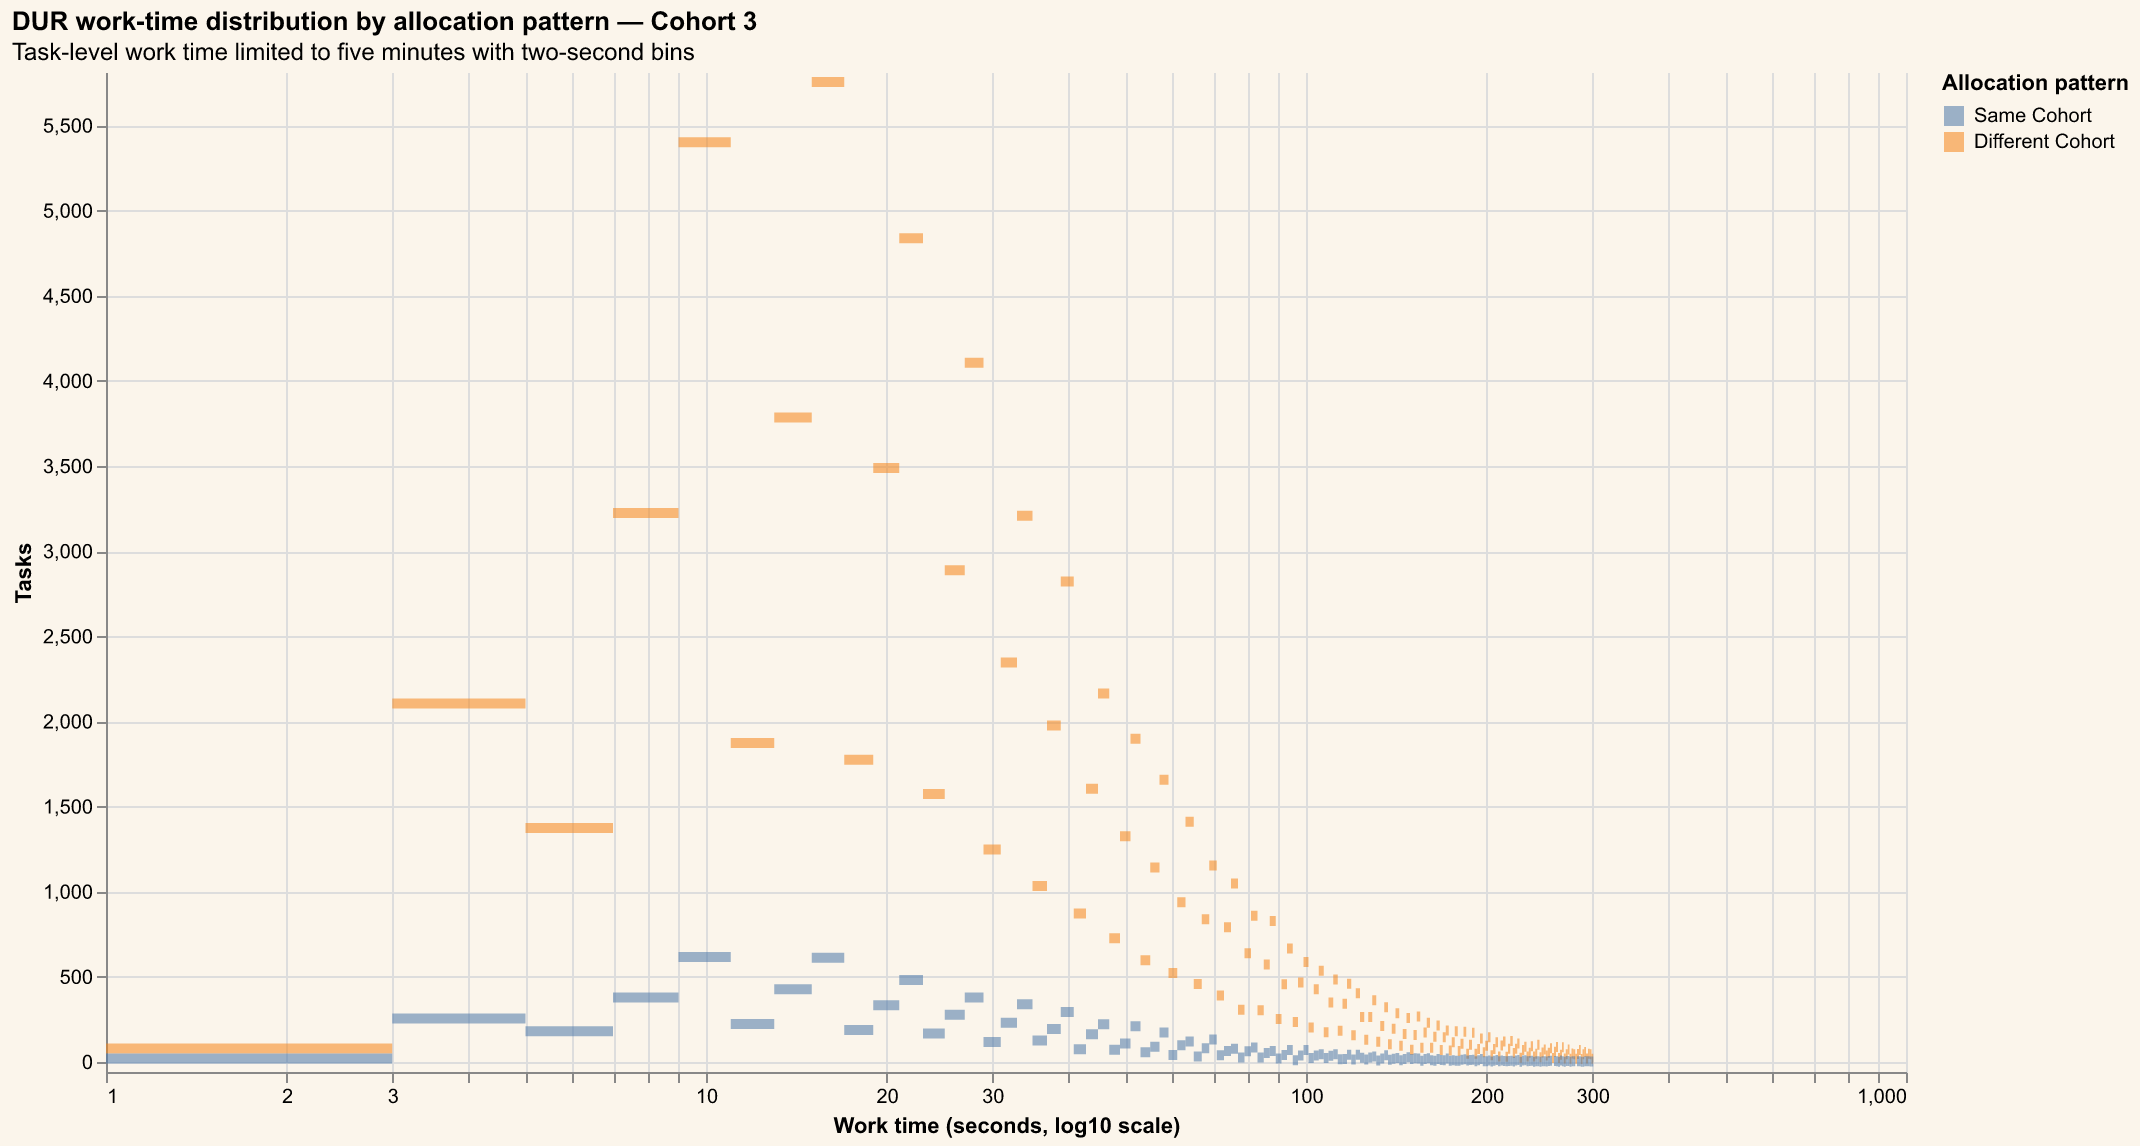
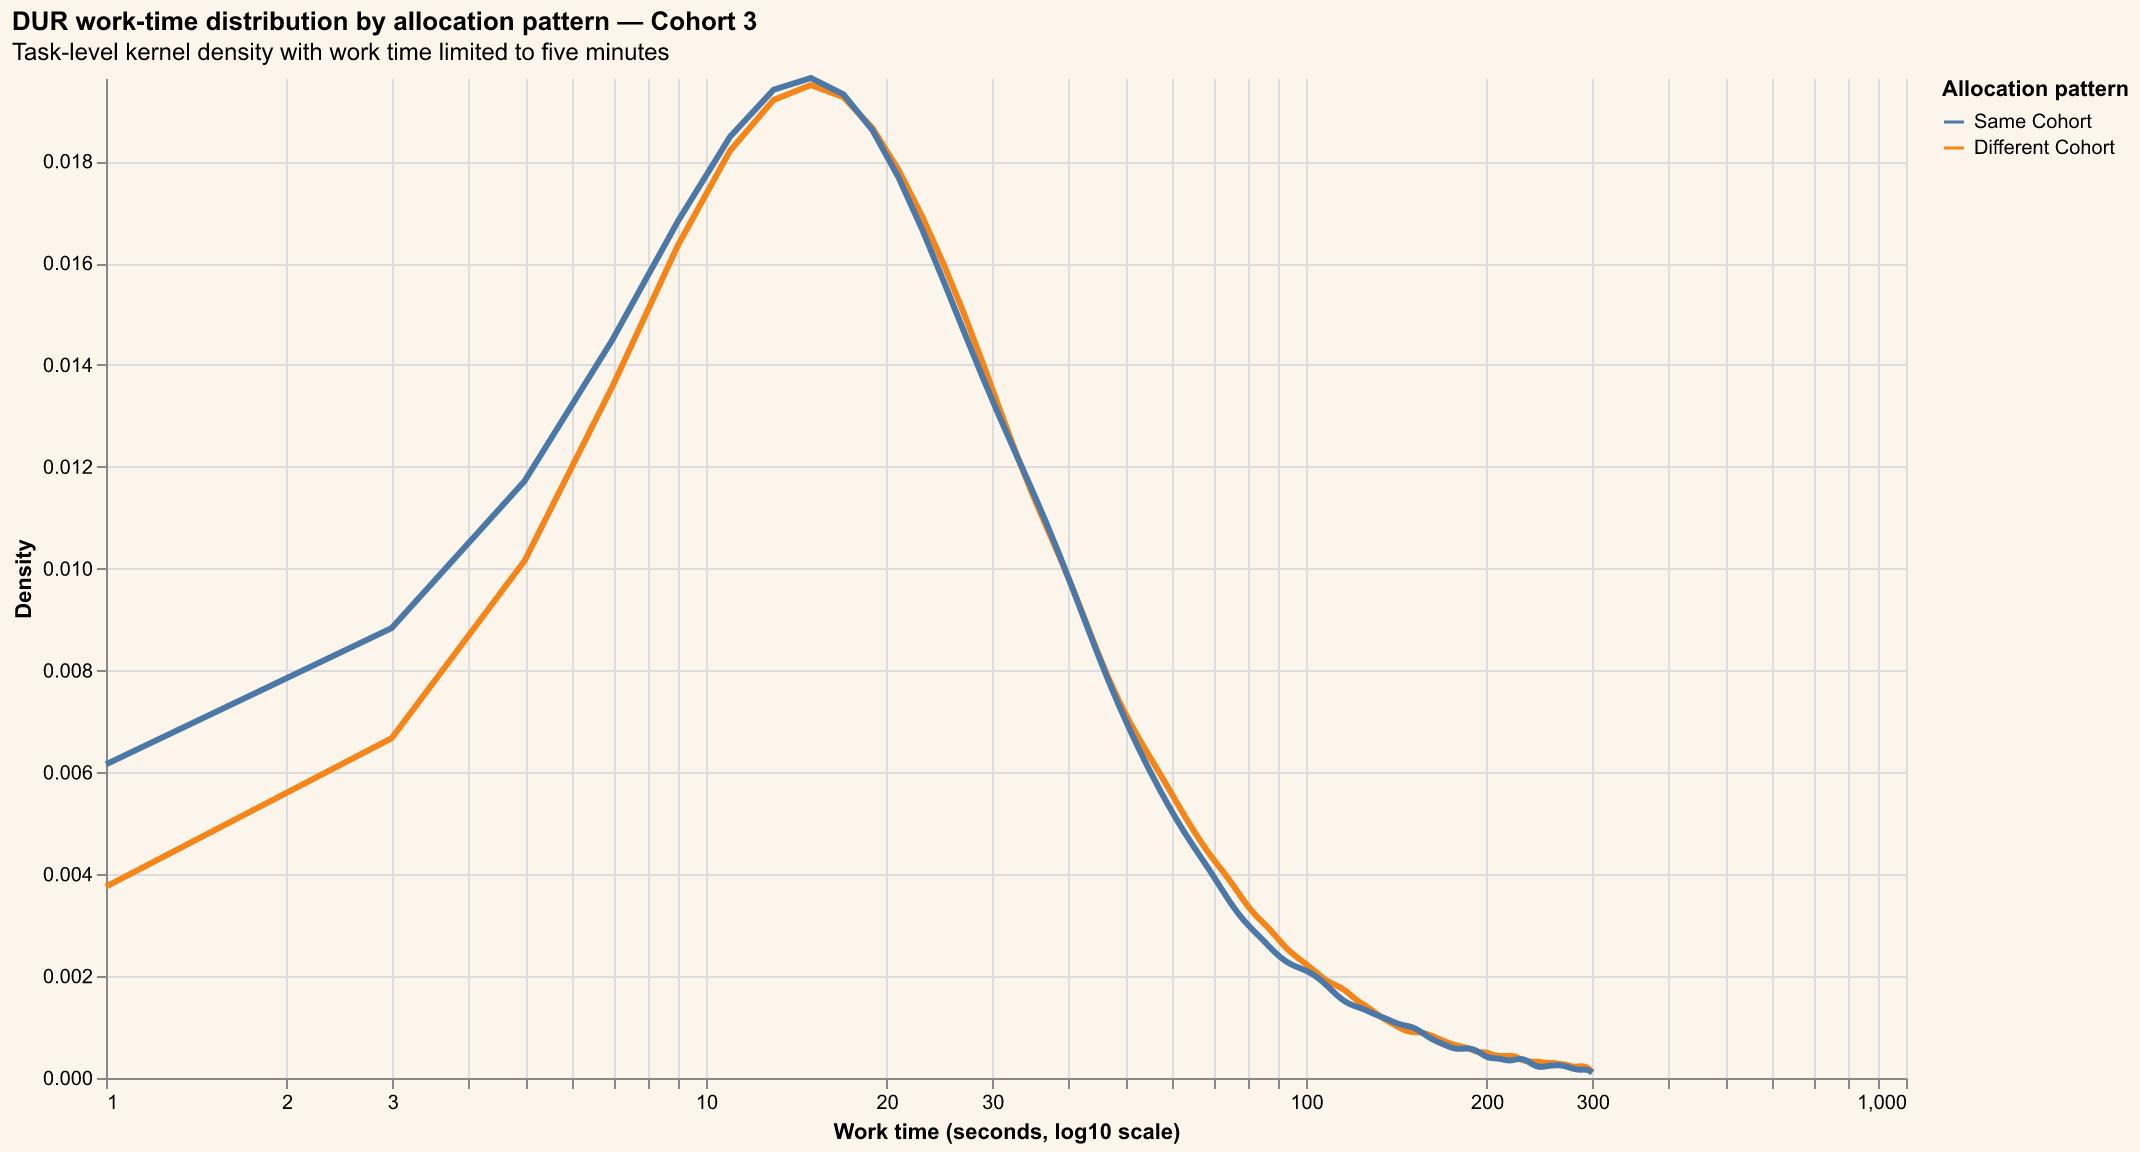
Changes the graphics to be more meaningful

diff --git a/src/python/santhosh_analysis.py b/src/python/santhosh_analysis.py
@@ -155,29 +155,23 @@ def welch_test(
 def distribution_chart(frame: pd.DataFrame, cohort: str) -> alt.Chart:
     chart_frame = cohort_frame(frame, cohort)[["allocation_pattern", "work_min"]].copy()
     chart_frame["work_seconds"] = chart_frame["work_min"] * 60
-    chart_frame["bin_start_seconds"] = (
-        ((chart_frame["work_seconds"] - 1) // 2) * 2 + 1
-    )
-    chart_frame["bin_end_seconds"] = chart_frame["bin_start_seconds"] + 2
-    histogram = (
-        chart_frame.groupby(
-            ["allocation_pattern", "bin_start_seconds", "bin_end_seconds"],
-            as_index=False,
-        )
-        .size()
-        .rename(columns={"size": "tasks"})
-    )
     return (
-        alt.Chart(histogram)
-        .mark_bar(opacity=0.55)
+        alt.Chart(chart_frame)
+        .transform_density(
+            "work_seconds",
+            as_=["work_seconds", "density"],
+            groupby=["allocation_pattern"],
+            extent=[1, 300],
+            steps=150,
+        )
+        .mark_line(strokeWidth=3)
         .encode(
             x=alt.X(
-                "bin_start_seconds:Q",
+                "work_seconds:Q",
                 scale=alt.Scale(type="log", base=10),
                 title="Work time (seconds, log10 scale)",
             ),
-            x2=alt.X2("bin_end_seconds:Q"),
-            y=alt.Y("tasks:Q", title="Tasks", scale=alt.Scale(domainMin=0)),
+            y=alt.Y("density:Q", title="Density", scale=alt.Scale(domainMin=0)),
             color=alt.Color(
                 "allocation_pattern:N",
                 title="Allocation pattern",
@@ -185,15 +179,14 @@ def distribution_chart(frame: pd.DataFrame, cohort: str) -> alt.Chart:
             ),
             tooltip=[
                 alt.Tooltip("allocation_pattern:N", title="Pattern"),
-                alt.Tooltip("bin_start_seconds:Q", title="Bin start (seconds)"),
-                alt.Tooltip("bin_end_seconds:Q", title="Bin end (seconds)"),
-                alt.Tooltip("tasks:Q", title="Tasks"),
+                alt.Tooltip("work_seconds:Q", title="Work time (seconds)"),
+                alt.Tooltip("density:Q", title="Density"),
             ],
         )
         .properties(
             title=alt.TitleParams(
                 f"DUR work-time distribution by allocation pattern — {cohort}",
-                subtitle="Task-level work time limited to five minutes with two-second bins",
+                subtitle="Task-level kernel density with work time limited to five minutes",
                 anchor="start",
             ),
             width=900,
@@ -264,9 +257,9 @@ The source query keeps the original filters: transitions on or after
 2026-08-01, DUR tasks with final status `CLOSED`, non-null user and start time,
 work time between 0.01 and 5 minutes, and known item cohorts. The previous
 cohort is calculated within user and transition date, ordered by `STARTED_AT`.
-Rows without a previous cohort are excluded. Distribution charts use two-second
-bins after converting work time from minutes to seconds, with a base-10
-logarithmic x-axis.
+Rows without a previous cohort are excluded. Distribution charts show separate
+kernel-density lines for the two allocation patterns after converting work time
+from minutes to seconds, with a base-10 logarithmic x-axis.
 
 ## Hypothesis test
 

diff --git a/tests/test_santhosh_analysis.py b/tests/test_santhosh_analysis.py
@@ -67,16 +67,20 @@ def test_analysis_sql_preserves_source_filters_and_returns_task_level_rows() -> 
     assert "ITEM_COHORT AS cohort" in sql
 
 
-def test_distribution_chart_uses_two_second_bins_and_allocation_pattern() -> None:
+def test_distribution_chart_uses_two_density_lines_and_log_axis() -> None:
     specification = analysis.distribution_chart(sample_frame(), "Cohort 1").to_dict()
 
     assert specification["title"]["text"] == (
         "DUR work-time distribution by allocation pattern — Cohort 1"
     )
-    assert specification["encoding"]["x"]["field"] == "bin_start_seconds"
-    assert specification["encoding"]["x2"]["field"] == "bin_end_seconds"
+    assert specification["mark"]["type"] == "line"
+    assert specification["transform"][0]["density"] == "work_seconds"
+    assert specification["transform"][0]["groupby"] == ["allocation_pattern"]
+    assert specification["encoding"]["x"]["field"] == "work_seconds"
     assert specification["encoding"]["x"]["title"] == "Work time (seconds, log10 scale)"
     assert specification["encoding"]["x"]["scale"] == {"base": 10, "type": "log"}
+    assert specification["encoding"]["y"]["field"] == "density"
+    assert specification["encoding"]["y"]["title"] == "Density"
     assert specification["encoding"]["color"]["field"] == "allocation_pattern"
 
 

diff --git a/outputs/reports/md/santosh_analysis.md b/outputs/reports/md/santosh_analysis.md
@@ -10,9 +10,9 @@ The source query keeps the original filters: transitions on or after
 2026-08-01, DUR tasks with final status `CLOSED`, non-null user and start time,
 work time between 0.01 and 5 minutes, and known item cohorts. The previous
 cohort is calculated within user and transition date, ordered by `STARTED_AT`.
-Rows without a previous cohort are excluded. Distribution charts use two-second
-bins after converting work time from minutes to seconds, with a base-10
-logarithmic x-axis.
+Rows without a previous cohort are excluded. Distribution charts show separate
+kernel-density lines for the two allocation patterns after converting work time
+from minutes to seconds, with a base-10 logarithmic x-axis.
 
 ## Hypothesis test
 

diff --git a/HOWTO.md b/HOWTO.md
@@ -818,7 +818,8 @@ four cohort distribution charts are written to
 `outputs/reports/md/santosh_analysis.md` contains separate descriptive
 statistics and Welch two-sample tests with confidence intervals for Cohorts 1–4,
 limits DUR work time to five minutes, uses a base-10 logarithmic x-axis with
-two-second bins, and includes the query, limitations, and all four charts.
+density lines for Same Cohort and Different Cohort, and includes the query,
+limitations, and all four charts.
 
 Redraw the four charts and report without querying Snowflake with:
 
